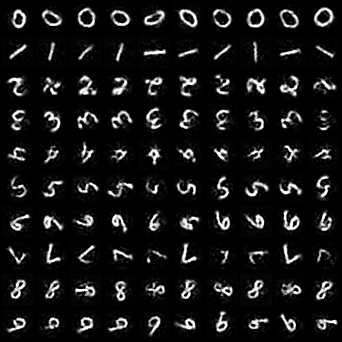
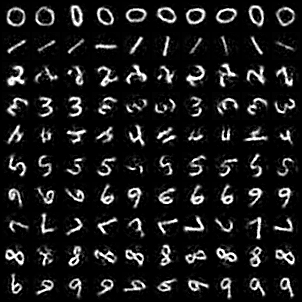
simplified input dim

diff --git a/src/mnist.py b/src/mnist.py
@@ -15,8 +15,7 @@ class MNIST(Dataset):
         rotate: bool = True,
     ):
         raw = datasets.MNIST(root=root, train=train, download=True)
-        x = raw.data.unsqueeze(1).float() / 255.0 * 2.0 - 1.0  # (N, 1, 28, 28)
-        self.x = F.pad(x, [2, 2, 2, 2], fill=-1)  # (N, 1, 32, 32) normalized fill value
+        self.x = raw.data.unsqueeze(1).float() / 255.0 * 2.0 - 1.0  # (N, 1, 28, 28)
         self.c = raw.targets  # (N,) digit class 0-9
         self.rotate = rotate
 
@@ -61,7 +60,7 @@ if __name__ == "__main__":
     fig, axes = plt.subplots(1, 6, figsize=(12, 2))
     for i, ax in enumerate(axes):
         x, c = ds[i]
-        ax.imshow(x.reshape(32, 32), cmap="gray")
+        ax.imshow(x.reshape(28, 28), cmap="gray")
         ax.set_title(f"class={c.item()}")
         ax.axis("off")
     plt.tight_layout()

diff --git a/src/generate.py b/src/generate.py
@@ -55,8 +55,8 @@ def main(args: argparse.Namespace) -> None:
 
     print(samples.shape)
 
-    # (100, 1024) -> (100, 1, 32, 32), denormalize [-1,1] -> [0,1]
-    samples = samples.float().view(-1, 1, 32, 32)
+    # (100, 1024) -> (100, 1, 28, 28), denormalize [-1,1] -> [0,1]
+    samples = samples.float().view(-1, 1, 28, 28)
     samples = ((samples + 1) / 2).clamp(0, 1)
 
     out_dir = Path("media")
